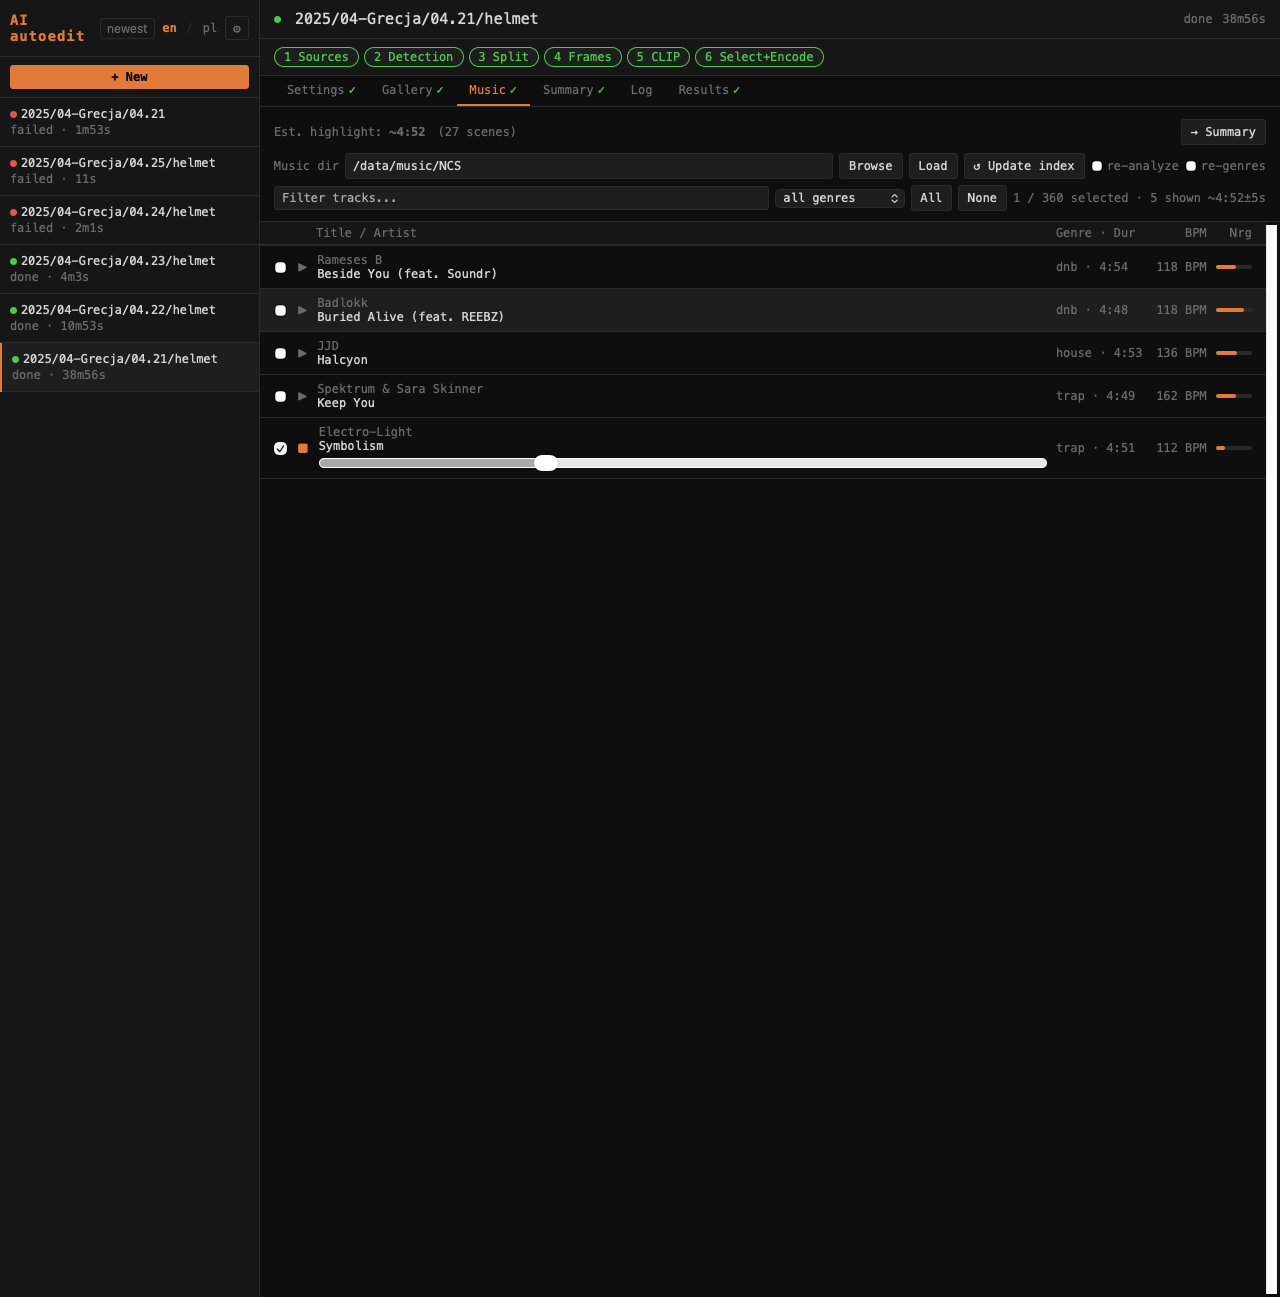
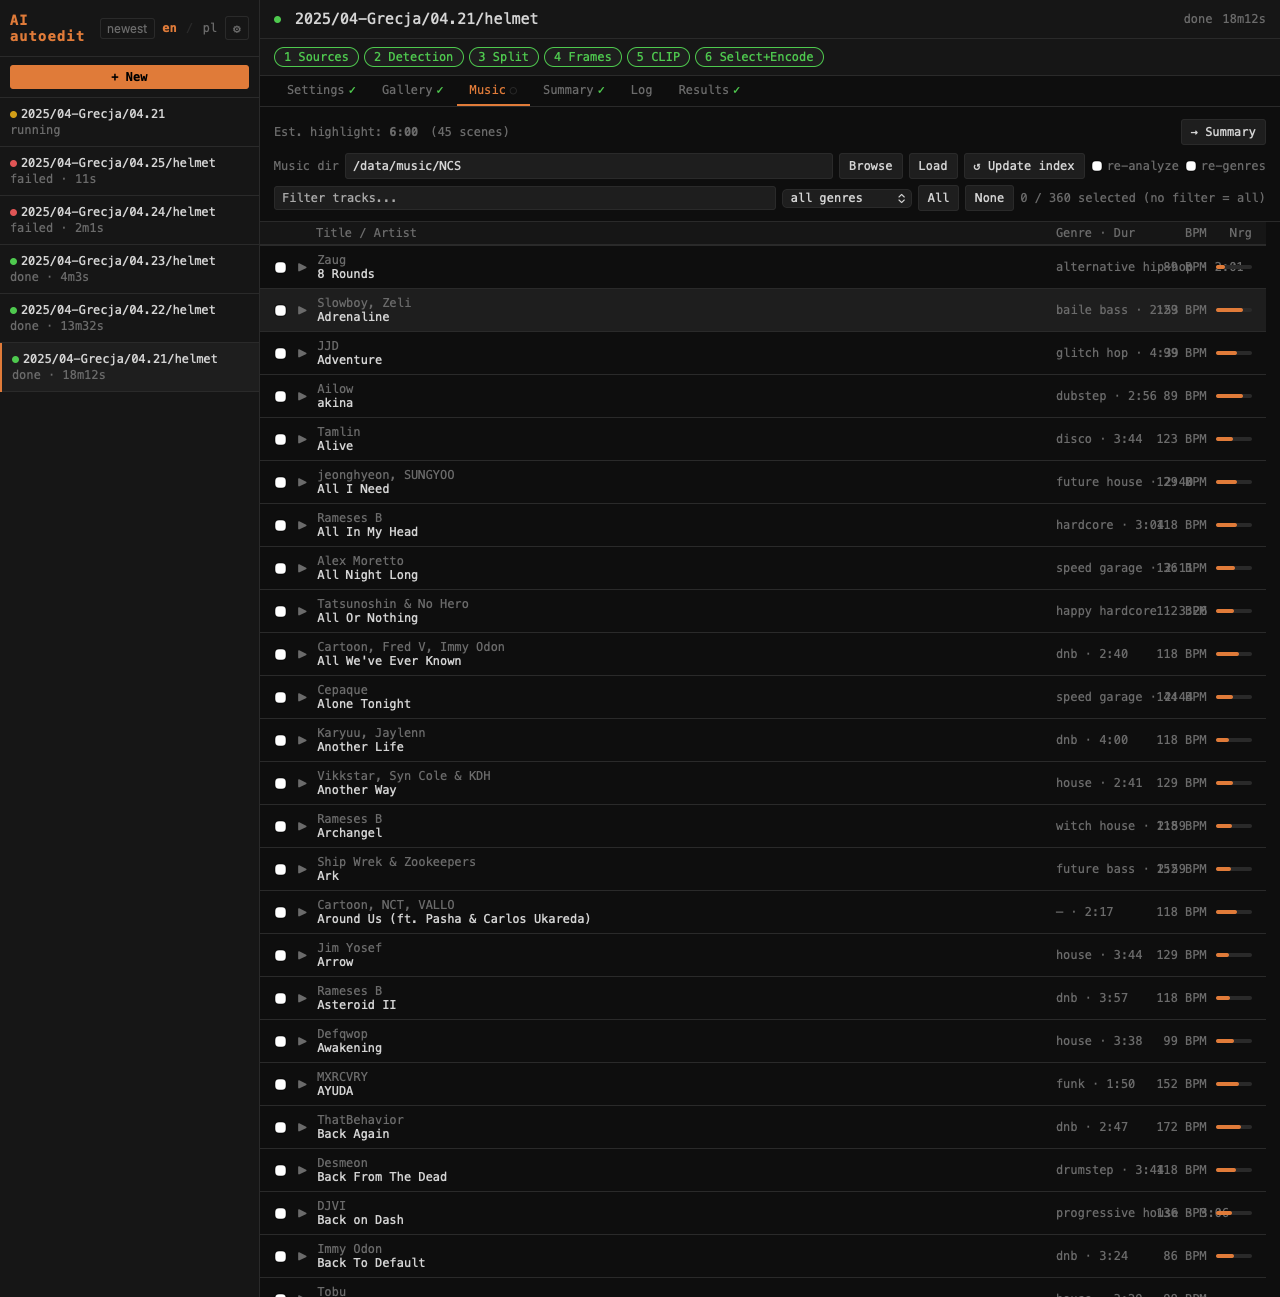
docs: sync documentation with updated screenshots
Added Filter section to Gallery (score/time prefix inputs), Fill button
and CLIP scoring (Batch size, Workers) to Settings, Browse/Load buttons
and Est. highlight header to Music. Updated screenshots. Added
clip_workers to configuration reference.

diff --git a/docs/ui-music.md b/docs/ui-music.md
@@ -2,11 +2,33 @@
 
 ![Muzyka](img/AI-autoedit-music.png)
 
-Zakładka **Music** pokazuje zaindeksowane ścieżki z katalogu muzycznego (MP3/M4A) z wykonawcą, tytułem, BPM, energią i gatunkiem. Indeks ładuje się automatycznie przy otwieraniu projektu.
+Zakładka **Music** pokazuje zaindeksowane ścieżki z katalogu muzycznego (MP3/M4A) z wykonawcą, tytułem, gatunkiem, BPM i energią.
 
-The **Music** tab shows indexed tracks from the music directory (MP3/M4A) with artist, title, BPM, energy, and genre. The index loads automatically when a project is opened.
+The **Music** tab shows indexed tracks from the music directory (MP3/M4A) with artist, title, genre, BPM, and energy.
+
+U góry zakładki widoczny jest szacowany czas highlight i liczba wybranych scen — np. `Est. highlight: 6:00 [45 scenes]`. Przycisk **→ Summary** przenosi do zakładki Summary.
+
+At the top of the tab: estimated highlight duration and selected scene count — e.g. `Est. highlight: 6:00 [45 scenes]`. The **→ Summary** button navigates to the Summary tab.
 
 ---
+
+## Katalog muzyczny / Music directory
+
+Pole **Music dir** ustawia ścieżkę do biblioteki muzycznej. Przyciski:
+
+| Przycisk | Opis |
+|----------|------|
+| **Browse** | Otwiera przeglądarkę katalogów do wyboru ścieżki |
+| **Load** | Ładuje ścieżki z aktualnie wpisanego katalogu bez przebudowy indeksu |
+| **↺ Update index** | Przebudowuje indeks BPM/energii/gatunków (patrz niżej) |
+
+The **Music dir** field sets the path to the music library. Buttons:
+
+| Button | Description |
+|--------|-------------|
+| **Browse** | Opens a directory browser to pick the path |
+| **Load** | Loads tracks from the currently entered directory without rebuilding the index |
+| **↺ Update index** | Rebuilds the BPM/energy/genre index (see below) |
 
 ## Filtrowanie / Filtering
 
@@ -31,9 +53,9 @@ Checkboxes next to tracks mark them for use in the pipeline. Selection persists 
 
 ## ↺ Update index
 
-Przebudowuje indeks BPM/energii/gatunków. Rzeczywisty pasek postępu pokazuje analizę pliku po pliku.
+Przebudowuje indeks BPM/energii/gatunków. Rzeczywisty pasek postępu pokazuje analizę pliku po pliku. Po zakończeniu lista ścieżek odświeża się automatycznie.
 
-Rebuilds the BPM/energy/genre index. A real per-file progress bar tracks the analysis.
+Rebuilds the BPM/energy/genre index. A real per-file progress bar tracks the analysis. The track list refreshes automatically when done.
 
 | Checkbox | Działanie |
 |----------|-----------|

diff --git a/docs/ui-settings.md b/docs/ui-settings.md
@@ -33,6 +33,11 @@ PySceneDetect parameters — affect the cut detection stage. Changes require Re-
 |----------|--------------------|
 | Max scene sec | Maks. czas wycinany z jednej sceny (środek klipu). / Max seconds taken per scene (centred). |
 | Max per file sec | Maks. łączny czas z jednego pliku. Nadmiarowe sceny oznaczone jako „limit" w Gallery. / Max total seconds from one source file. Excess scenes shown as "limit" in Gallery. |
+| Target min | Docelowy czas highlight w minutach — używany przez przycisk ⟳ Fill. / Target highlight duration in minutes — used by the ⟳ Fill button. |
+
+Przycisk **⟳ Fill** oblicza Max scene sec i Max per file sec automatycznie na podstawie liczby plików źródłowych i docelowego czasu.
+
+The **⟳ Fill** button auto-calculates Max scene sec and Max per file sec from the source file count and target duration.
 
 Threshold CLIP ustawiany jest na żywo przez suwak w zakładce Gallery.
 
@@ -49,6 +54,17 @@ Ride description for Claude-based prompt generation. Details: [New project](ui-p
 Edytowalne bezpośrednio, jeden prompt na linię. Zapisywane automatycznie po opuszczeniu pola.
 
 Editable directly, one prompt per line. Saved automatically on blur.
+
+### CLIP scoring
+
+| Parametr | Domyślnie | Opis / Description |
+|----------|-----------|--------------------|
+| Batch size | `64` | Klatki przez GPU jednocześnie. Obniż do 32/16 przy błędach OOM. / Frames per GPU batch. Lower to 32/16 if OOM errors occur. |
+| Workers | `4` | Wątki ładowania klatek. / Frame-loading worker threads. |
+
+Wartości zapisywane automatycznie po opuszczeniu pola. Stosowane przy kolejnym Re-analyze.
+
+Values saved automatically on blur. Applied on the next Re-analyze run.
 
 ---
 

diff --git a/docs/ui-gallery.md b/docs/ui-gallery.md
@@ -49,6 +49,26 @@ Clicking a frame toggles its status:
 
 Overrides are saved server-side in `_autoframe/manual_overrides.json` and applied on every subsequent render.
 
+## Filter
+
+Dwa pola tekstowe obok przycisku Reset filtrują widoczne sceny:
+
+| Pole | Placeholder | Działanie |
+|------|-------------|-----------|
+| Score | `score` | Prefiks score — np. `0.8` pokazuje sceny 0.800–0.899 |
+| Time | `HH:MM` | Prefiks czasu — np. `09` pokazuje sceny z godziny 09:xx |
+
+Wciśnięcie Enter lub opuszczenie pola stosuje filtr. Oba filtry można łączyć.
+
+Two text inputs next to the Reset button filter the visible scenes:
+
+| Field | Placeholder | Behaviour |
+|-------|-------------|-----------|
+| Score | `score` | Score prefix — e.g. `0.8` shows scenes 0.800–0.899 |
+| Time | `HH:MM` | Timestamp prefix — e.g. `09` shows scenes with 09:xx timecodes |
+
+Press Enter or blur to apply. Both filters can be combined.
+
 ## ↺ Reset
 
 Przywraca threshold do wartości wyznaczonej automatycznie podczas analizy (top-10 scen) i usuwa wszystkie manualne overrides.

diff --git a/docs/configuration.md b/docs/configuration.md
@@ -39,6 +39,7 @@ Prompty generowane automatycznie przez Claude — opisz dzień jazdy w formularz
 | `top_percent` | `25` | Procent najlepszych scen drukowanych w logu. Tylko wyświetlanie. |
 | `neg_weight` | `0.5` | Waga negatywnych promptów: `final = pos - neg × neg_weight`. Dla ciemnego materiału obniż do `0.3`. |
 | `batch_size` | `64` | Klatek przez GPU jednocześnie. Obniż do `32`/`16` przy błędach OOM. |
+| `clip_workers` | `4` | Wątki ładowania klatek dla dataloadera CLIP. |
 
 ### `[scene_selection]`
 
@@ -145,6 +146,7 @@ Auto-generated by Claude — describe the ride in the **New project** form or **
 | `top_percent` | `25` | Top scenes printed in summary log. Display only. |
 | `neg_weight` | `0.5` | `final = pos - neg × neg_weight`. Lower to `0.3` for dark footage. |
 | `batch_size` | `64` | Frames per GPU batch. Lower to `32`/`16` if OOM. |
+| `clip_workers` | `4` | Dataloader worker threads for CLIP frame loading. |
 
 ### `[scene_selection]`
 
